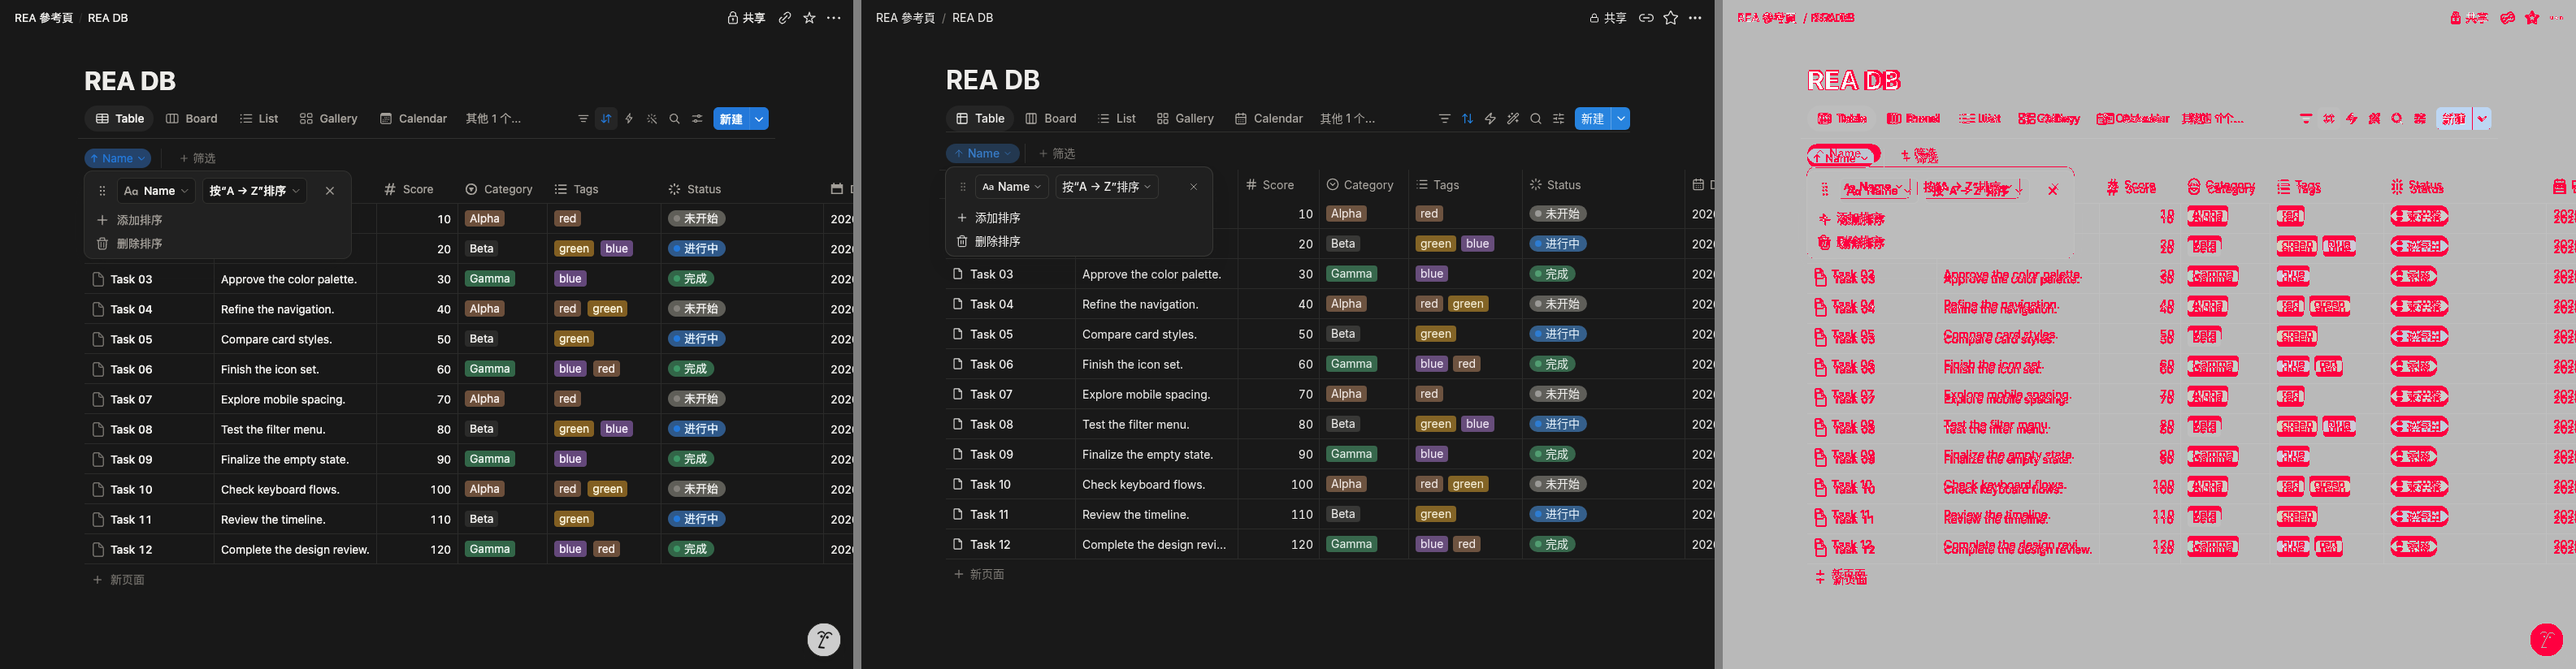
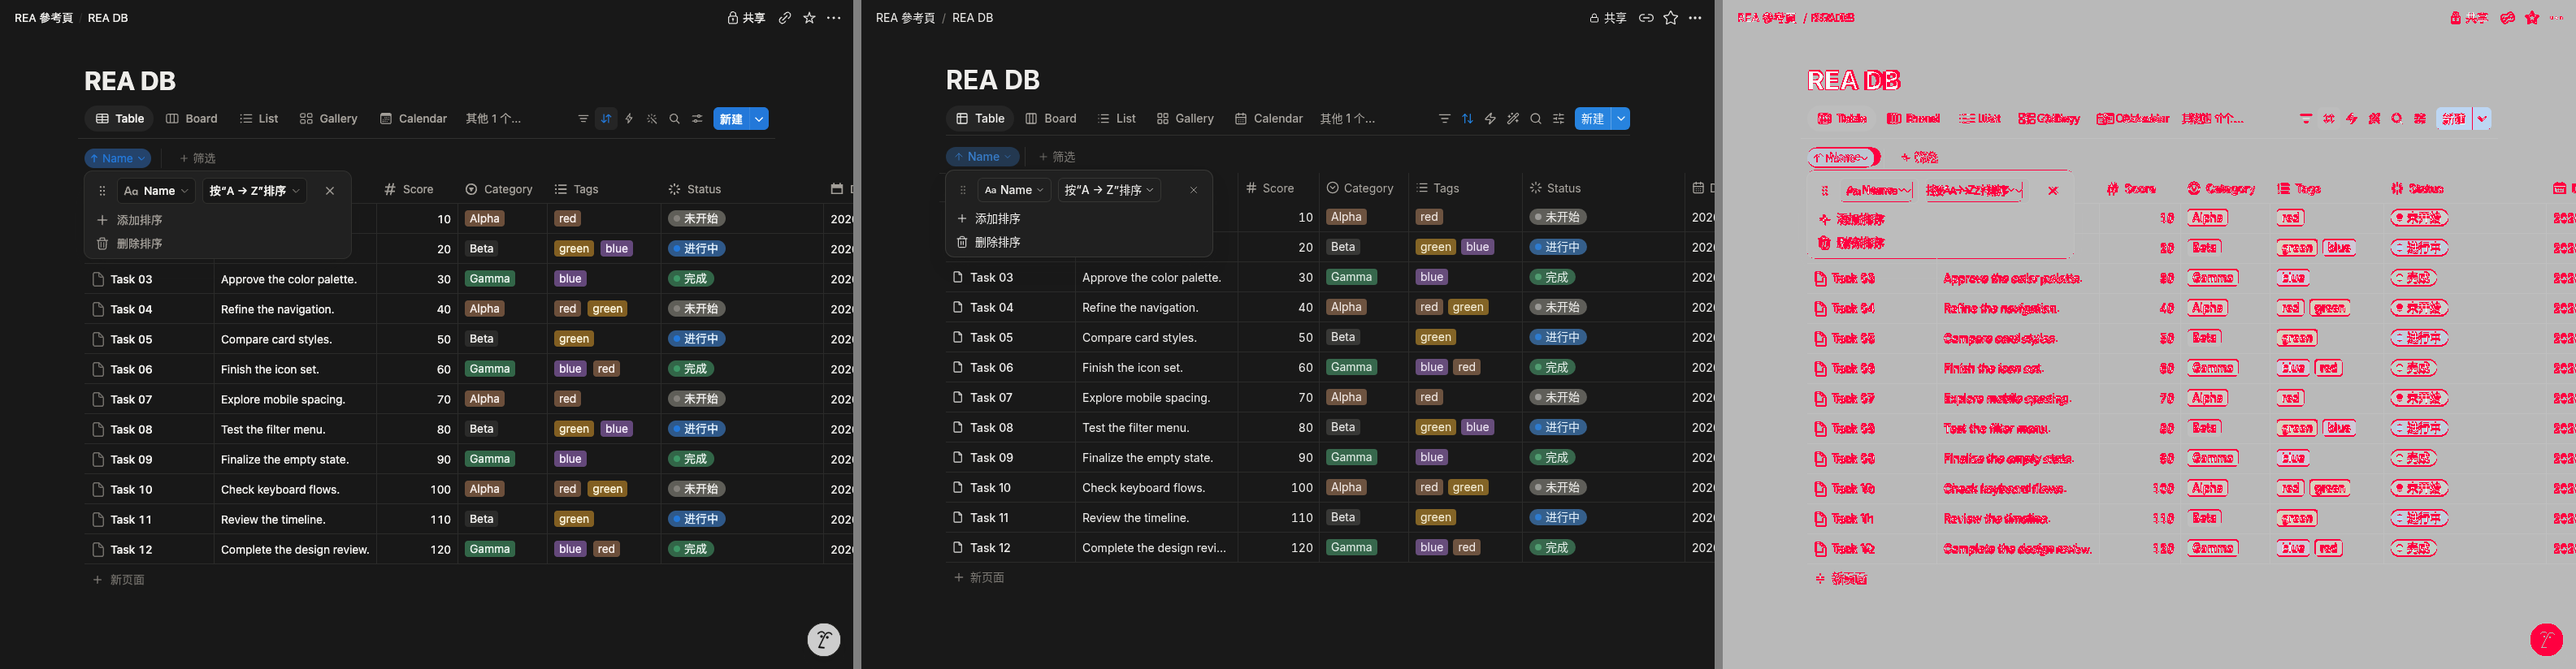
sort panel spacing; chip bar offset

diff --git a/packages/app/src/styles/db.css b/packages/app/src/styles/db.css
@@ -375,3 +375,7 @@ body.is-col-resizing { cursor: col-resize !important; user-select: none; }
 .ink-cal-grid { margin-top: 0; }
 .ink-cal-day.is-today { right: 4px; }
 .ink-tl-right { display: flex; align-items: center; gap: 4px; height: 100%; padding: 0 104px 0 8px; margin-right: -104px; background: var(--ink-timeline-background, var(--ink-background-primary)); pointer-events: auto; }
+.ink-db-chips { margin-top: 2px; }
+.ink-sort-rules { padding-bottom: 1px; }
+.ink-sort-grip { margin-right: 3px; }
+.ink-sort-btn .ink-prop-icon, .ink-sort-btn > svg:first-child { transform: scale(1.15); }
